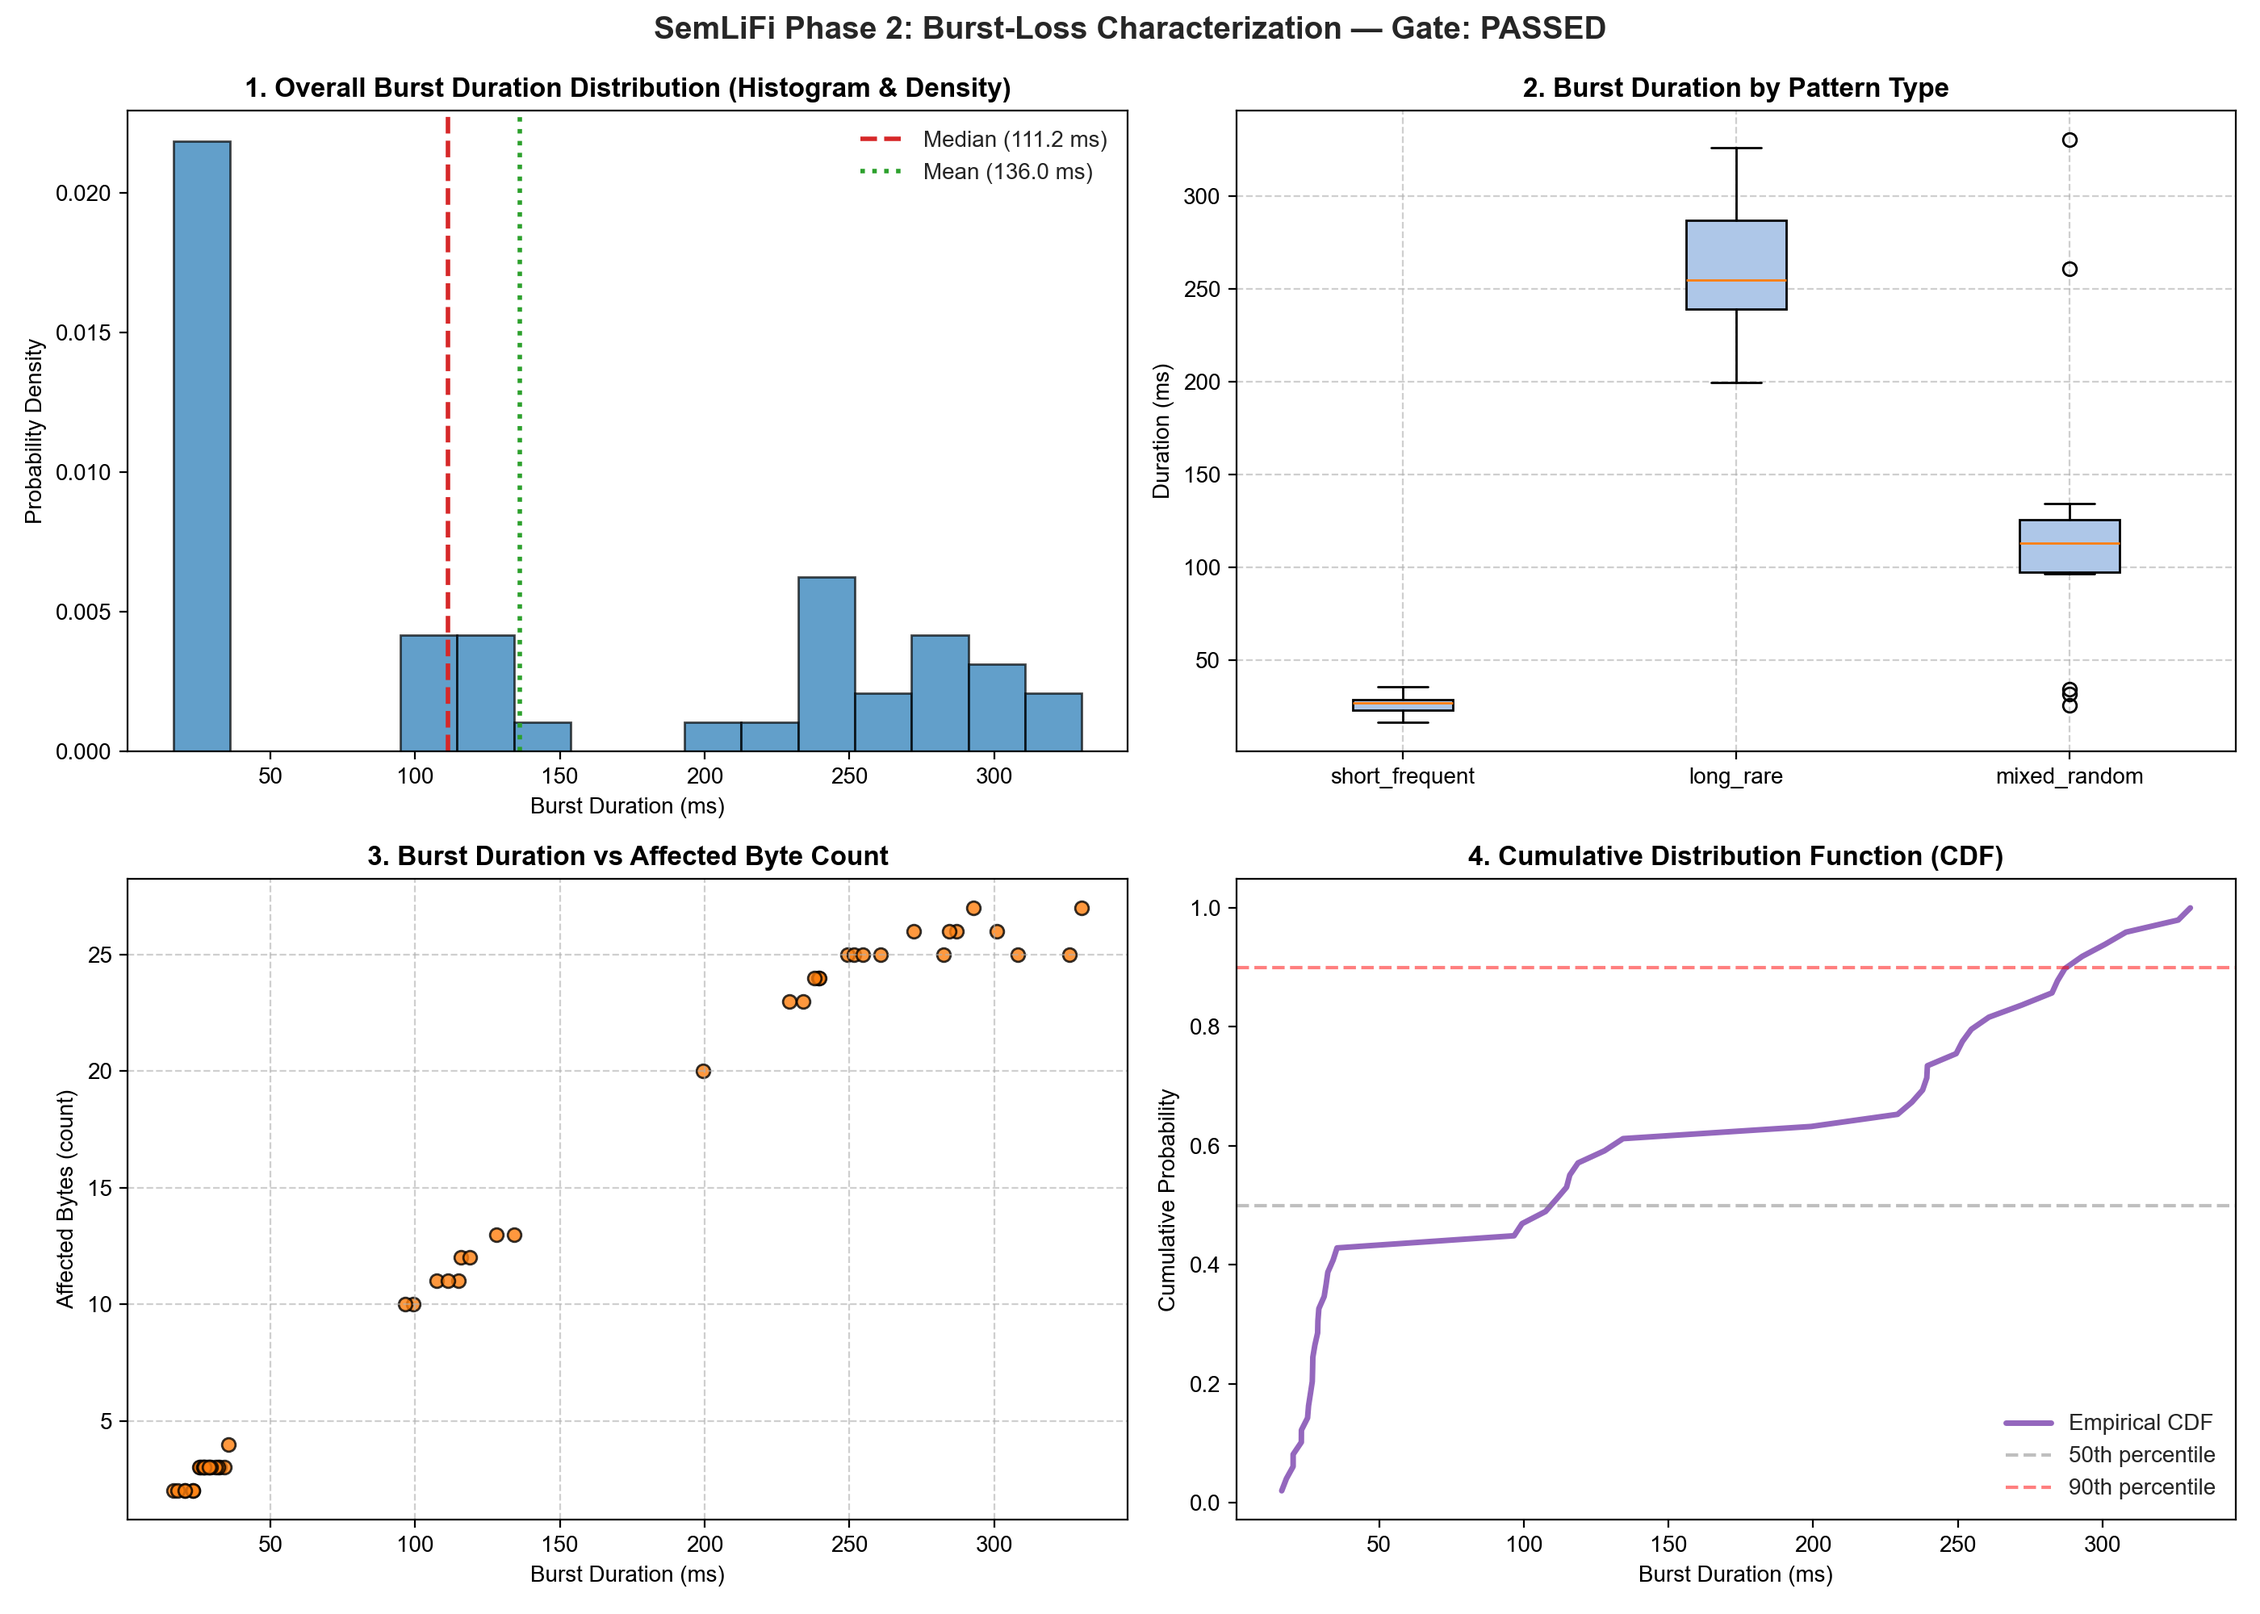
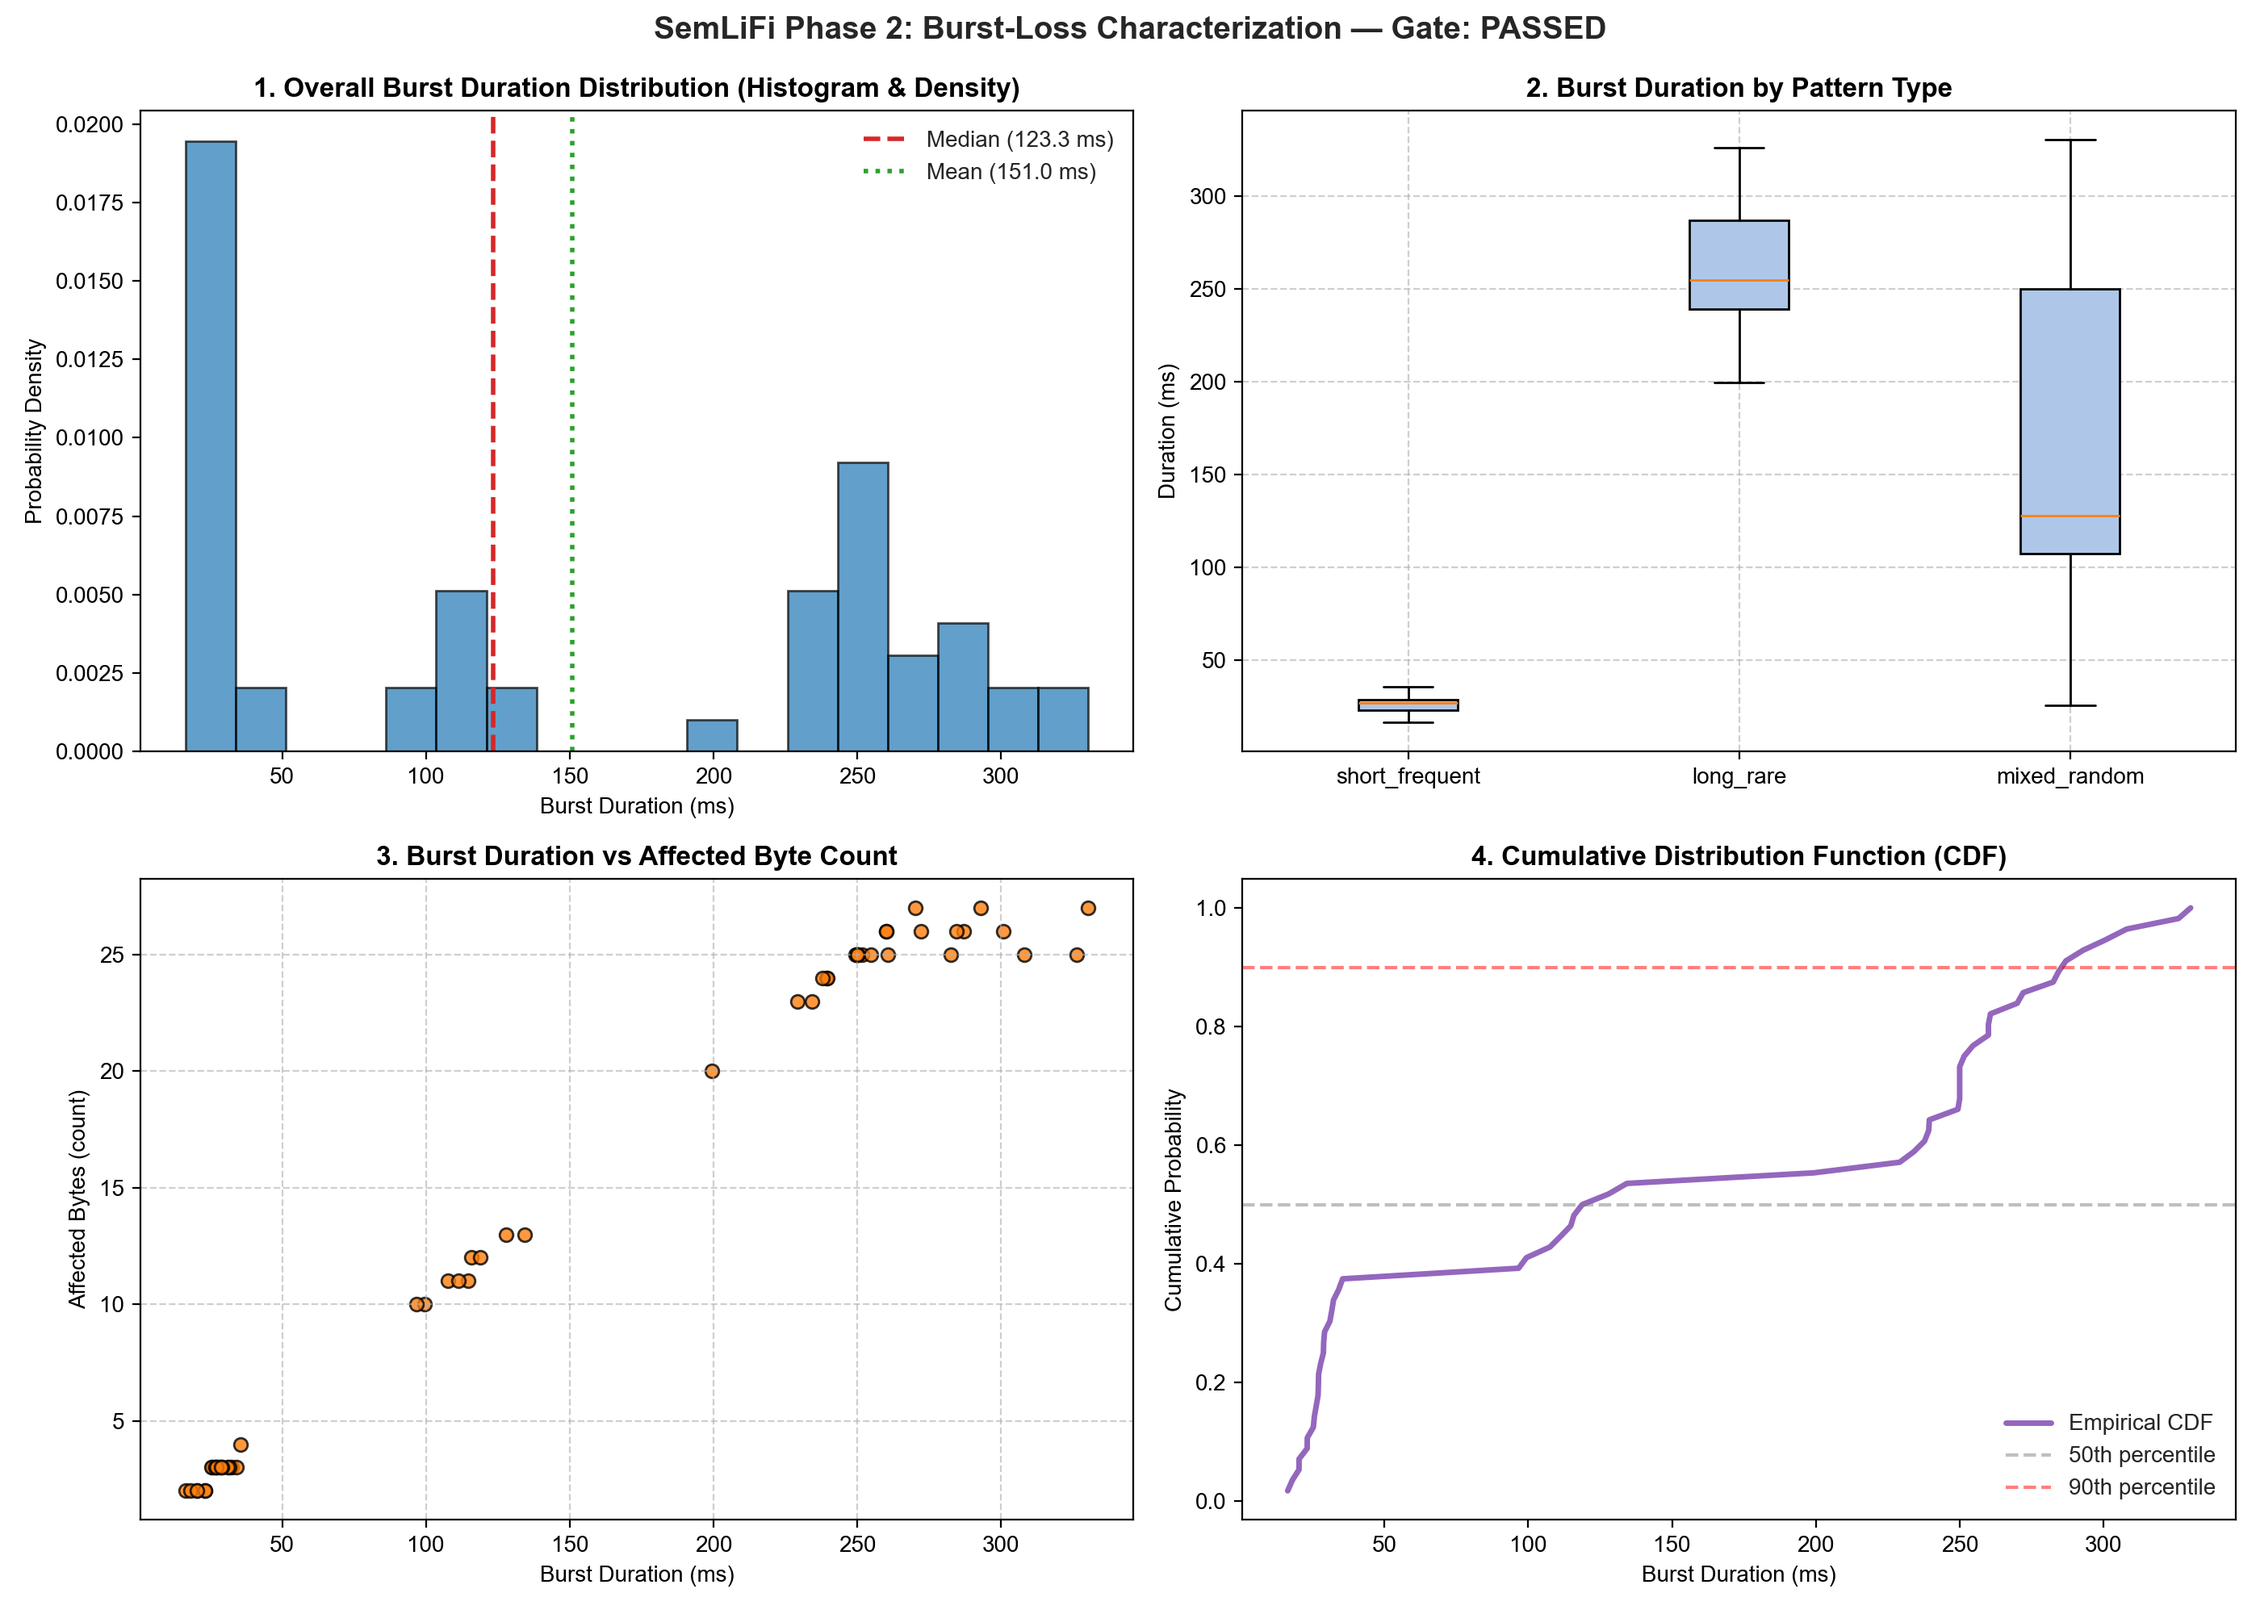
Live hardware Phase 2 burst campaign: 56 burst events, gate checkpoint PASSED

diff --git a/burst_logger.py b/burst_logger.py
@@ -293,7 +293,7 @@ class BurstLogger:
             frame_id = i + 1
             payload = telemetry_samples[i % len(telemetry_samples)]
             self.transmit_and_log(payload, frame_id)
-            time.sleep(0.4)
+            time.sleep(0.7)
 
         print("\n" + "=" * 70)
         print(f" CAMPAIGN COMPLETE: {self.event_counter} Total | "
